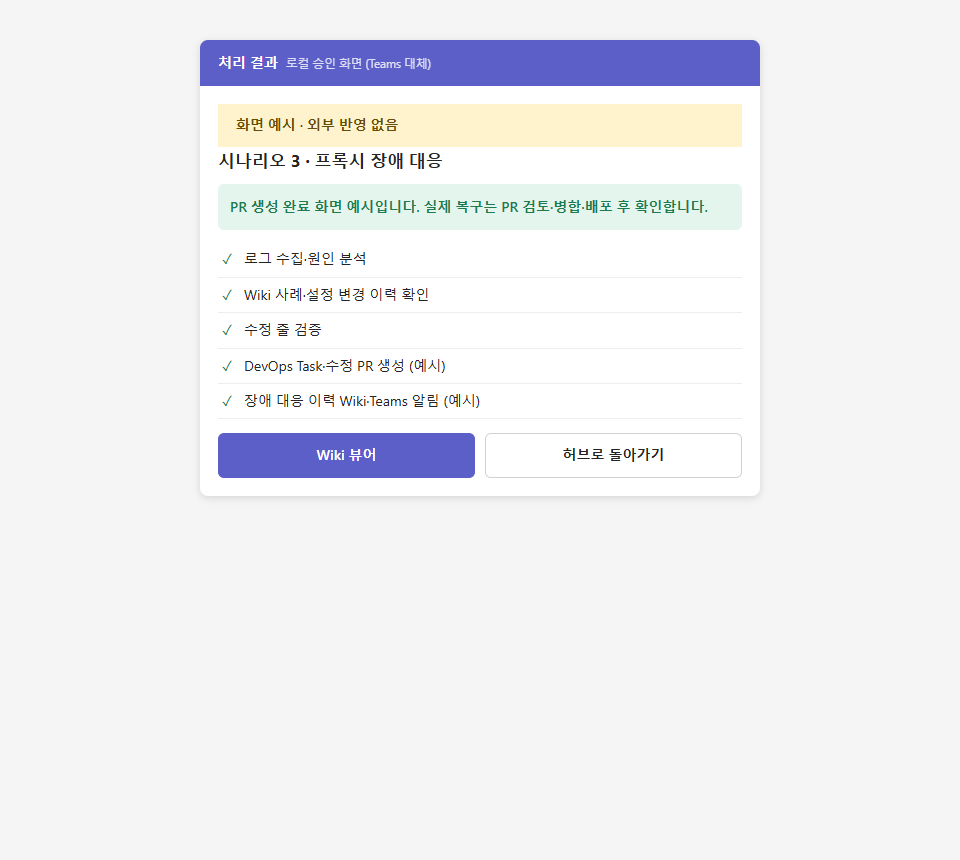
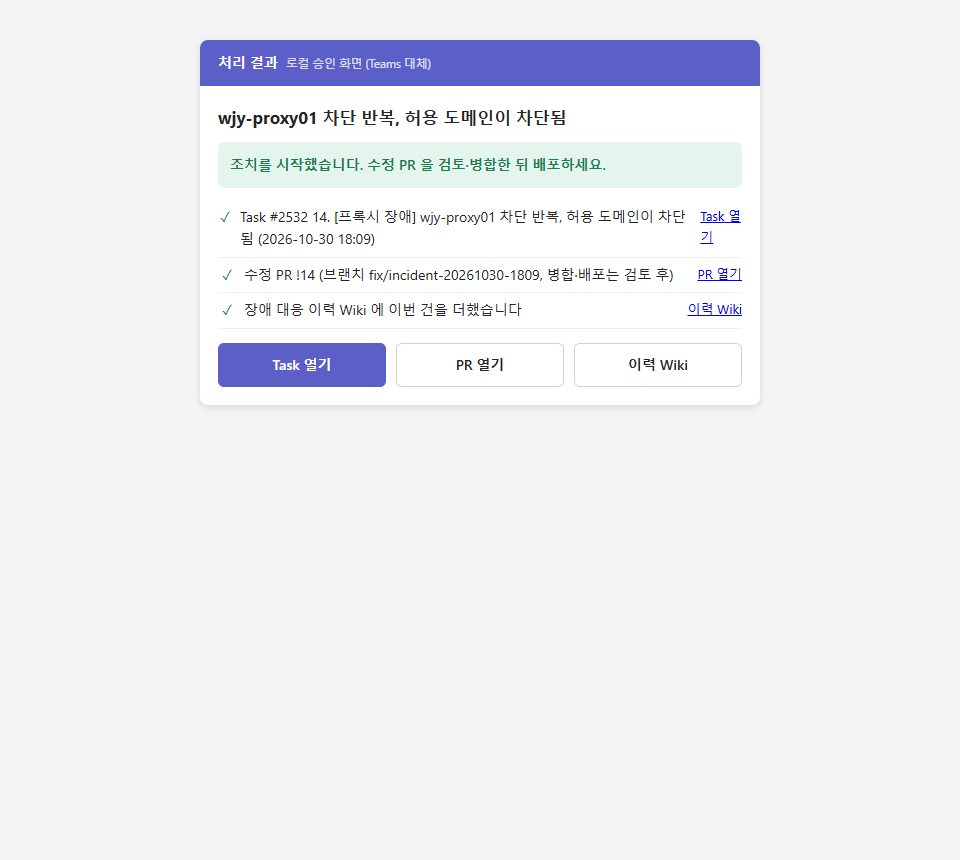
README 시나리오 3: 실제 실행(허용 도메인 오타) 화면으로 교체 — Teams 카드, 승인·결과, Task, PR 개요·파일 비교
capture_readme.py devops: 시나리오 3 Task(설명·Development)·PR(설명·Work items)·파일 비교에 빨간 테두리.
Teams 카드 버튼이 넘치면 다음 줄로.

Changed region(s): [[0.2188, 0.1209, 0.7812, 0.5744], [0.6562, 0.393, 0.7188, 0.4535], [0.5938, 0.514, 0.6875, 0.5442]]

diff --git a/test/capture_readme.py b/test/capture_readme.py
@@ -7,7 +7,8 @@ Teams 카드(--only teams)는 teams_notify 가 보낼 때 남긴 data/teams_card
 Adaptive Cards 공식 렌더러로 그린다. Teams 에 새 메시지를 보내지 않는다.
 --only wikidiff: 시나리오 2 가 마지막으로 고친 현황 문서의 수정 전/후를 wiki-repo 커밋에서 꺼내 나란히 그리고 바뀐 곳을 빨갛게 표시.
 --only devops: 허브가 띄운 Chrome(전용 프로필, 개발자 도구 포트 9222, Azure DevOps 로그인 필요)에 붙어 시나리오 2 의
-  PBI·Task 화면을 찍는다. 승인 기록(data/approvals/)의 처리 단계에서 번호를 찾는다. 이름·이메일은 가린다.
+  PBI·Task, 시나리오 3 의 Task·PR(개요·파일 비교) 화면을 찍는다. 승인 기록(data/approvals/)의 처리 단계 링크를 쓴다.
+  이름·이메일·IP 는 가린다.
 """
 
 from __future__ import annotations
@@ -344,6 +345,7 @@ CARD_PAGE = """<!doctype html><html><head><meta charset="utf-8">
 .meta{font-size:12px;color:#616161;margin-bottom:10px}.meta b{color:#242424}
 #card{border:1px solid #e0e0e0;border-radius:6px;background:#fff}  /* Teams 채널의 카드 테두리 */
 #card .ac-adaptiveCard{border-radius:6px}
+#card .ac-actionSet{flex-wrap:wrap!important;row-gap:8px}  /* 버튼이 넘치면 다음 줄로(실제 Teams 처럼) */
 .ac-pushButton{border:1px solid #d1d1d1!important;background:#fff!important;border-radius:4px!important;font-weight:600}</style>
 </head><body><div id="frame"><div class="meta"><b>Workflows</b> · Teams 일반 채널 · __WHEN__</div><div id="card"></div></div>
 <script>
@@ -544,49 +546,73 @@ DEVOPS_SECTION = ("(t => { const e = [...document.querySelectorAll('span')].find
                   " return e && e.closest('.work-item-form-collapsible-section'); })")
 
 
-def devops_ids() -> dict:
-    """시나리오 2 승인 기록의 처리 단계에서 PBI·Task 번호를 찾는다."""
-    saved = latest_approval(2)
-    text = " ".join(s.get("text", "") for s in ((saved or {}).get("state") or {}).get("steps", []))
-    pbi, task = re.search(r"PBI #(\d+)", text), re.search(r"Task #(\d+)", text)
-    return {"pbi": pbi and pbi.group(1), "task": task and task.group(1)}
+def section(title: str) -> str:
+    return f"{DEVOPS_SECTION}('{title}')"
+
+
+PR_DESCRIPTION = "document.querySelector('.repos-pr-description-card')"
+PR_WORKITEMS = ("(() => { const e = [...document.querySelectorAll('div')].find(x => x.children.length === 0 && x.textContent.trim() === 'Work items');"
+                " return e && e.closest('.rhythm-vertical-8'); })()")
+PR_DIFF = ("(() => { const v = [...document.querySelectorAll('button, a')].find(x => x.textContent.trim() === 'View');"
+           " return v && v.closest('.bolt-card'); })()")
+
+
+def devops_shots() -> list[tuple]:
+    """(파일 이름, 주소, 빨간 테두리 칠 절 이름) 목록. 시나리오별 승인 기록의 처리 단계 링크(PBI·Task·PR 열기)에서 만든다."""
+    shots = []
+    for number in (2, 3):
+        saved = latest_approval(number)
+        steps = ((saved or {}).get("state") or {}).get("steps", [])
+        for s in steps:
+            link = (s.get("link") or [None, None])[1]
+            text = s.get("text", "")
+            if not link:
+                continue
+            if re.search(r"PBI #\d+", text) and "백로그" in text:
+                shots.append((f"devops-scenario{number}-pbi.png", link, "Related Work", [section("Related Work")]))
+            elif re.search(r"Task #\d+ 생성", text) or (number == 3 and "/_workitems/" in link):
+                marks = [section("Description")] + ([section("Development")] if number == 3 else [])
+                shots.append((f"devops-scenario{number}-task.png", link, "Description", marks))
+            elif "/pullrequest/" in link:
+                pr = link.split("?")[0]
+                shots.append((f"devops-scenario{number}-pr.png", pr, "Description", [PR_DESCRIPTION, PR_WORKITEMS]))
+                shots.append((f"devops-scenario{number}-pr-files.png", pr + "?_a=files", "View", [PR_DIFF]))
+    seen, out = set(), []
+    for shot in shots:  # 같은 파일 이름은 처음 것만
+        if shot[0] not in seen:
+            seen.add(shot[0]); out.append(shot)
+    return out
 
 
 def devops(own_page):
-    ids = devops_ids()
-    if not ids["task"]:
-        print("skip devops: 시나리오 2 승인 기록에 Task 번호 없음", flush=True)
+    shots = devops_shots()
+    if not shots:
+        print("skip devops: 승인 기록(data/approvals/)에 PBI·Task·PR 링크 없음", flush=True)
         return
-    base = "https://dev.azure.com/{}/{}".format(os.environ.get("AZURE_DEVOPS_ORG", ""),
-                                                os.environ.get("AZURE_DEVOPS_PROJECT", "").strip('"').replace(" ", "%20"))
     names = [n for n in {os.environ.get("TEAMS_MENTION_NAME", ""), os.environ.get("DEVOPS_DISPLAY_NAME", "")} if n]
-    if True:  # 이미 떠 있는 Playwright 로 허브 Chrome 에 붙는다(sync_playwright 를 겹쳐 띄우면 오류)
-        try:
-            browser = own_page.context.browser.browser_type.connect_over_cdp("http://127.0.0.1:9222")
-        except Exception as exc:
-            print(f"skip devops: 허브 Chrome(포트 9222)에 붙지 못함 — 허브를 띄우고 그 창에서 Azure DevOps 에 로그인하세요 ({exc})", flush=True)
-            return
-        page = browser.contexts[0].new_page()
-        try:
-            page.set_viewport_size({"width": 1600, "height": 1150})
-            for name, wid, section in [("devops-scenario2-pbi.png", ids["pbi"], "Related Work"),
-                                       ("devops-scenario2-task.png", ids["task"], "Description")]:
-                if not wid:
-                    continue
-                page.goto(f"{base}/_workitems/edit/{wid}", wait_until="domcontentloaded", timeout=60000)
-                if "login" in page.url or "signin" in page.url:
-                    print("skip devops: Azure DevOps 로그인 필요(허브 Chrome 창에서 로그인)", flush=True)
-                    return
-                page.locator("span", has_text=section).first.wait_for(timeout=60000)
-                page.wait_for_timeout(2500)  # 링크 목록·설명 늦게 그려짐
-                page.evaluate(REDACTOR)
-                page.evaluate(NAME_REDACTOR, names)
-                mark(page, f"{DEVOPS_SECTION}('{section}')")
-                page.screenshot(path=str(OUT / name), animations="disabled")
-                (EVIDENCE / f"{Path(name).stem}.txt").write_text(page.locator("body").inner_text(), encoding="utf-8")
-                print(f"captured {name} (#{wid})", flush=True)
-        finally:
-            page.close()
+    try:  # 이미 떠 있는 Playwright 로 허브 Chrome 에 붙는다(sync_playwright 를 겹쳐 띄우면 오류)
+        browser = own_page.context.browser.browser_type.connect_over_cdp("http://127.0.0.1:9222")
+    except Exception as exc:
+        print(f"skip devops: 허브 Chrome(포트 9222)에 붙지 못함 — 허브를 띄우고 그 창에서 Azure DevOps 에 로그인하세요 ({exc})", flush=True)
+        return
+    page = browser.contexts[0].new_page()
+    try:
+        page.set_viewport_size({"width": 1600, "height": 1150})
+        for name, url, wait_text, marks in shots:
+            page.goto(url, wait_until="domcontentloaded", timeout=60000)
+            if "login" in page.url or "signin" in page.url:
+                print("skip devops: Azure DevOps 로그인 필요(허브 Chrome 창에서 로그인)", flush=True)
+                return
+            page.get_by_text(wait_text, exact=True).first.wait_for(timeout=60000)
+            page.wait_for_timeout(3000)  # 링크 목록·설명·비교 화면이 늦게 그려짐
+            page.evaluate(REDACTOR)
+            page.evaluate(NAME_REDACTOR, names)
+            mark(page, *marks)
+            page.screenshot(path=str(OUT / name), animations="disabled")
+            (EVIDENCE / f"{Path(name).stem}.txt").write_text(page.locator("body").inner_text(), encoding="utf-8")
+            print(f"captured {name} ({url.rsplit('/', 1)[-1]})", flush=True)
+    finally:
+        page.close()
 
 
 def main():
